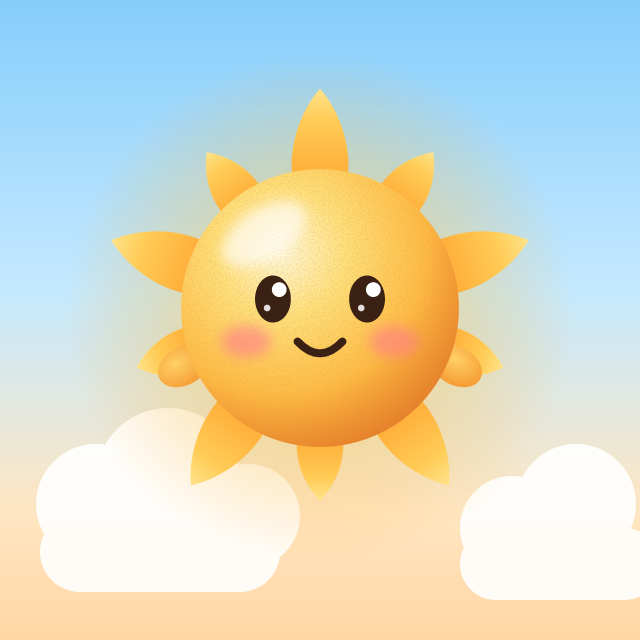
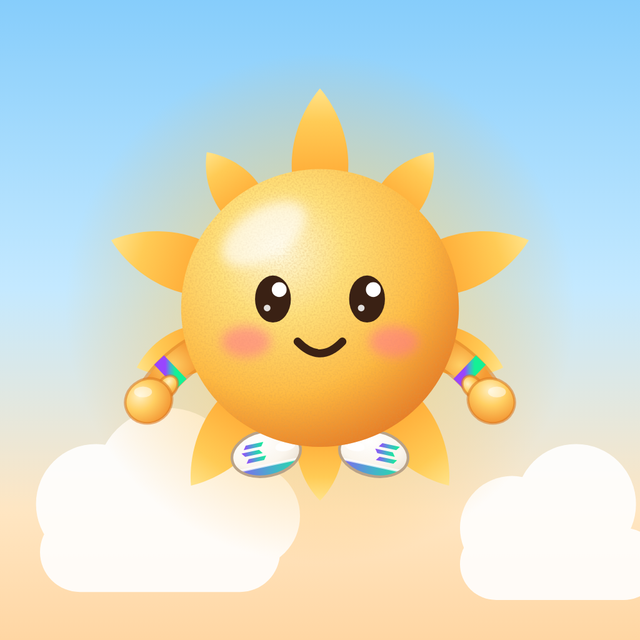
Mini App: share cards for the moments worth sharing
When Sunny catches a phishing link, Solana stops a draw, or a deep scan comes
back, a share row offers '📸 Share to Story' and '💬 Send to a friend'. The
story card is drawn on a canvas at 1080×1920 with Sunny's fonts: sky, Sunny in
its sneakers, a label chip, the headline and detail, and t.me/SunnySolBot.
Only on-chain moments get the Solana gradient. Outside Telegram it uses the
system share sheet or a download. The public avatar now shows Sunny's new
look too.

diff --git a/web/src/lib/share.ts b/web/src/lib/share.ts
@@ -1,0 +1,222 @@
+import { inTelegram, post } from './api'
+
+// Share cards: when Sunny catches a scam, Solana stops a draw or a deep scan comes back,
+// you can share the moment. The card is drawn here as a 1080×1920 story with Sunny's own
+// fonts, then posted to your Telegram Story (which needs a public link, so it's uploaded
+// first) or sent to a chat. Outside Telegram it uses the system share sheet.
+
+export const BOT_LINK = 'https://t.me/SunnySolBot'
+
+export type ShareSpec = {
+  /** Small label above the headline, e.g. "Scam caught". */
+  kicker: string
+  title: string
+  detail: string
+  /** warn for scams, sol for on-chain moments, ok for good news. */
+  tone: 'warn' | 'sol' | 'ok'
+  /** The text that goes with the story or the chat message. */
+  caption: string
+}
+
+const W = 1080
+const H = 1920
+const INK = '#3A2114'
+const SOFT = '#7A5A47'
+const FAINT = '#A88B76'
+const TONES = {
+  warn: { ink: '#C4472A', bg: '#FFE3DA' },
+  ok: { ink: '#2F8F5B', bg: '#DDF3E5' },
+  sol: { ink: '#6B3FD1', bg: '#EFE6FF' },
+}
+
+function loadImage(src: string) {
+  return new Promise<HTMLImageElement>((resolve, reject) => {
+    const img = new Image()
+    img.onload = () => resolve(img)
+    img.onerror = reject
+    img.src = src
+  })
+}
+
+function roundRect(g: CanvasRenderingContext2D, x: number, y: number, w: number, h: number, r: number) {
+  g.beginPath()
+  g.moveTo(x + r, y)
+  g.arcTo(x + w, y, x + w, y + h, r)
+  g.arcTo(x + w, y + h, x, y + h, r)
+  g.arcTo(x, y + h, x, y, r)
+  g.arcTo(x, y, x + w, y, r)
+  g.closePath()
+}
+
+function cloud(g: CanvasRenderingContext2D, x: number, y: number, s: number) {
+  g.fillStyle = 'rgba(255, 255, 255, 0.85)'
+  for (const [dx, dy, r] of [
+    [0, 0, 70],
+    [70, -30, 90],
+    [160, 0, 70],
+    [80, 25, 70],
+  ]) {
+    g.beginPath()
+    g.arc(x + dx * s, y + dy * s, r * s, 0, Math.PI * 2)
+    g.fill()
+  }
+}
+
+/** Splits text into lines that fit `width`, keeping at most `max` lines (the last one gets "…"). */
+function wrap(g: CanvasRenderingContext2D, text: string, width: number, max: number) {
+  const lines: string[] = []
+  let line = ''
+  for (const word of text.split(/\s+/)) {
+    const next = line ? `${line} ${word}` : word
+    if (g.measureText(next).width <= width) line = next
+    else {
+      lines.push(line)
+      line = word
+    }
+  }
+  if (line) lines.push(line)
+  if (lines.length > max) {
+    lines.length = max
+    lines[max - 1] = `${lines[max - 1].replace(/\s+\S*$/, '')}…`
+  }
+  return lines
+}
+
+/** Draws the story card and returns it as a JPEG. */
+export async function drawCard(spec: ShareSpec): Promise<Blob> {
+  await Promise.all([
+    document.fonts.load('600 84px Fraunces'),
+    document.fonts.load('800 40px Figtree'),
+    document.fonts.load('500 42px Figtree'),
+  ]).catch(() => {})
+  const canvas = document.createElement('canvas')
+  canvas.width = W
+  canvas.height = H
+  const g = canvas.getContext('2d')!
+
+  // A warm morning sky, like Sunny's home.
+  const sky = g.createLinearGradient(0, 0, 0, H)
+  sky.addColorStop(0, '#8FD0FF')
+  sky.addColorStop(0.5, '#FFE6C2')
+  sky.addColorStop(1, '#FFC690')
+  g.fillStyle = sky
+  g.fillRect(0, 0, W, H)
+  cloud(g, 90, 300, 1.1)
+  cloud(g, 760, 180, 0.8)
+  cloud(g, 720, 1000, 0.9)
+
+  // Sunny, in its rounded window.
+  const avatar = await loadImage('/sunny-avatar.png')
+  g.save()
+  g.shadowColor = 'rgba(170, 96, 36, 0.35)'
+  g.shadowBlur = 60
+  g.shadowOffsetY = 24
+  roundRect(g, 220, 200, 640, 640, 140)
+  g.fillStyle = '#fff'
+  g.fill()
+  g.restore()
+  g.save()
+  roundRect(g, 220, 200, 640, 640, 140)
+  g.clip()
+  g.drawImage(avatar, 220, 200, 640, 640)
+  g.restore()
+
+  // The message card.
+  const top = 940
+  const cardH = 760
+  g.save()
+  g.shadowColor = 'rgba(120, 70, 30, 0.25)'
+  g.shadowBlur = 50
+  g.shadowOffsetY = 20
+  roundRect(g, 70, top, W - 140, cardH, 64)
+  g.fillStyle = '#FFFDF8'
+  g.fill()
+  g.restore()
+
+  const tone = TONES[spec.tone]
+  g.font = '800 36px Figtree'
+  const kicker = spec.kicker.toUpperCase()
+  const chipW = g.measureText(kicker).width + 64
+  roundRect(g, 130, top + 70, chipW, 70, 35)
+  g.fillStyle = tone.bg
+  g.fill()
+  g.fillStyle = tone.ink
+  g.textBaseline = 'middle'
+  g.fillText(kicker, 162, top + 106)
+
+  g.textBaseline = 'alphabetic'
+  g.fillStyle = INK
+  g.font = '600 80px Fraunces'
+  const titleLines = wrap(g, spec.title, W - 260, 3)
+  titleLines.forEach((l, i) => g.fillText(l, 130, top + 250 + i * 92))
+
+  g.fillStyle = SOFT
+  g.font = '500 42px Figtree'
+  const detailTop = top + 250 + titleLines.length * 92 + 20
+  wrap(g, spec.detail, W - 260, 3).forEach((l, i) => g.fillText(l, 130, detailTop + i * 58))
+
+  // On-chain moments get Solana's colors, and only those.
+  if (spec.tone === 'sol') {
+    const bar = g.createLinearGradient(130, 0, W - 130, 0)
+    bar.addColorStop(0, '#9945FF')
+    bar.addColorStop(0.55, '#43B4CA')
+    bar.addColorStop(1, '#14F195')
+    roundRect(g, 130, top + cardH - 70, W - 260, 12, 6)
+    g.fillStyle = bar
+    g.fill()
+  }
+
+  g.fillStyle = INK
+  g.font = '800 46px Figtree'
+  g.fillText('☀ Sunny · your Solana guardian', 110, H - 150)
+  g.fillStyle = FAINT
+  g.font = '700 38px Figtree'
+  g.fillText('t.me/SunnySolBot', 110, H - 92)
+
+  return new Promise((resolve, reject) =>
+    canvas.toBlob((b) => (b ? resolve(b) : reject(new Error('Couldn’t draw the card'))), 'image/jpeg', 0.88),
+  )
+}
+
+const toBase64 = (blob: Blob) =>
+  new Promise<string>((resolve, reject) => {
+    const r = new FileReader()
+    r.onload = () => resolve(String(r.result).split(',')[1] ?? '')
+    r.onerror = reject
+    r.readAsDataURL(blob)
+  })
+
+const telegram = () => window.Telegram?.WebApp
+
+/** True when this Telegram can post to Stories (Bot API 7.8 and later). */
+export const canShareStory = () =>
+  inTelegram() && typeof telegram()?.shareToStory === 'function' && Boolean(telegram()?.isVersionAtLeast?.('7.8'))
+
+/** Draws the card and posts it as a Telegram Story, or uses the system share sheet outside Telegram. */
+export async function shareStory(spec: ShareSpec) {
+  const blob = await drawCard(spec)
+  if (canShareStory()) {
+    const { url } = await post<{ url: string }>('/api/share', { image: await toBase64(blob) })
+    // Stories allow 200 characters of text for most people.
+    telegram()!.shareToStory!(url, { text: `${spec.caption} ${BOT_LINK}`.slice(0, 200) })
+    return
+  }
+  const file = new File([blob], 'sunny.jpg', { type: 'image/jpeg' })
+  if (navigator.canShare?.({ files: [file] })) {
+    await navigator.share({ files: [file], text: `${spec.caption} ${BOT_LINK}` }).catch(() => {})
+    return
+  }
+  const a = document.createElement('a')
+  a.href = URL.createObjectURL(blob)
+  a.download = 'sunny.jpg'
+  a.click()
+  setTimeout(() => URL.revokeObjectURL(a.href), 10_000)
+}
+
+/** Opens Telegram's "share to a chat" with the caption and Sunny's link. */
+export function sendToChat(spec: ShareSpec) {
+  const link = `https://t.me/share/url?url=${encodeURIComponent(BOT_LINK)}&text=${encodeURIComponent(spec.caption)}`
+  const open = telegram()?.openTelegramLink
+  if (inTelegram() && open) open(link)
+  else window.open(link, '_blank', 'noopener')
+}

diff --git a/web/src/components/Cards.tsx b/web/src/components/Cards.tsx
@@ -1,5 +1,6 @@
 import { useState } from 'react'
 import { SolanaMark, SunMark } from './Icons'
+import { canShareStory, sendToChat, shareStory, type ShareSpec } from '../lib/share'
 import type { AlertCard, DeepScan, LinkCheck, MyWallet, PocketEvent, TokenCard } from '../lib/chat'
 import type { WalletReport } from '../lib/home'
 
@@ -91,8 +92,37 @@ const VERDICT = {
 } as const
 
 /** Verdict on a link the user asked about (phishing lists + impersonation checks). */
+/** Share buttons under a moment worth sharing: a Telegram Story card, or a note to a friend. */
+export function ShareRow({ spec }: { spec: ShareSpec }) {
+  const [busy, setBusy] = useState(false)
+  const [error, setError] = useState<string | null>(null)
+  const story = async () => {
+    setBusy(true)
+    setError(null)
+    try {
+      await shareStory(spec)
+    } catch (err) {
+      setError(err instanceof Error ? err.message : 'I couldn’t make the card. Try again?')
+    } finally {
+      setBusy(false)
+    }
+  }
+  return (
+    <div className="share-row">
+      <button type="button" onClick={() => void story()} disabled={busy}>
+        {busy ? 'Making your card…' : canShareStory() ? '📸 Share to Story' : '📸 Share card'}
+      </button>
+      <button type="button" onClick={() => sendToChat(spec)}>
+        💬 Send to a friend
+      </button>
+      {error && <small>{error}</small>}
+    </div>
+  )
+}
+
 export function LinkCardView({ link }: { link: LinkCheck }) {
   const v = VERDICT[link.verdict]
+  const scam = link.verdict === 'known_scam'
   return (
     <div className={`link-card link-card--${link.verdict}`}>
       <div className="link-card-top">
@@ -109,6 +139,17 @@ export function LinkCardView({ link }: { link: LinkCheck }) {
           <li key={r}>{r}</li>
         ))}
       </ul>
+      {(scam || link.verdict === 'suspicious') && (
+        <ShareRow
+          spec={{
+            kicker: 'Scam caught',
+            title: `Sunny caught a ${scam ? 'phishing' : 'suspicious'} link`,
+            detail: `${link.domain}: ${link.reasons[0]}`,
+            tone: 'warn',
+            caption: `Sunny just warned me: ${link.domain} is ${scam ? 'a phishing site' : 'suspicious'} 🛡 My Solana guardian lives in Telegram:`,
+          }}
+        />
+      )}
     </div>
   )
 }
@@ -334,6 +375,15 @@ export function DeepScanView({ scan }: { scan: DeepScan }) {
           ))}
         </ul>
       )}
+      <ShareRow
+        spec={{
+          kicker: 'Deep scan',
+          title: `Sunny deep-scanned ${scan.symbol}: ${RISK_LABEL[scan.risk].toLowerCase()}`,
+          detail: `Top 10 holders own ${pct(h.top10Pct)}. Paid $${scan.price.toFixed(2)} from its own pocket money, over x402.`,
+          tone: 'sol',
+          caption: `My AI pet Sunny paid $${scan.price.toFixed(2)} from its pocket money to deep-scan ${scan.symbol} over x402 🔍`,
+        }}
+      />
       <p className="deep-scan-paid">
         <SolanaMark size={11} /> Paid ${scan.price.toFixed(2)} from my pocket over x402 ·{' '}
         <a href={scan.paymentTx} target="_blank" rel="noreferrer">
@@ -368,6 +418,17 @@ export function PocketEventView({ event }: { event: PocketEvent }) {
             </>
           )}
         </small>
+        {!event.ok && (
+          <ShareRow
+            spec={{
+              kicker: 'My AI can’t overspend',
+              title: `Solana stopped Sunny from spending $${event.amount}`,
+              detail: `${event.message}. The limits live on-chain, not in the AI.`,
+              tone: 'sol',
+              caption: `I asked my AI pet Sunny to spend $${event.amount}. Solana said no: ${event.message.toLowerCase()} ☀`,
+            }}
+          />
+        )}
       </div>
     </div>
   )

diff --git a/web/src/index.css b/web/src/index.css
@@ -3469,3 +3469,32 @@ button.token:active {
   font-weight: 650;
   color: var(--ink-faint);
 }
+
+/* Share a moment: a Telegram Story card, or a note to a friend. */
+.share-row {
+  display: flex;
+  flex-wrap: wrap;
+  align-items: center;
+  gap: 6px;
+  margin-top: 10px;
+}
+
+.share-row button {
+  padding: 6px 11px;
+  border-radius: 999px;
+  font-size: 12.5px;
+  font-weight: 750;
+  color: var(--chip-ink);
+  background: var(--chip);
+  border: 1px solid var(--card-edge);
+}
+
+.share-row button:disabled {
+  opacity: 0.6;
+}
+
+.share-row small {
+  flex-basis: 100%;
+  font-size: 12px;
+  color: var(--warn);
+}

diff --git a/web/src/lib/haptics.ts b/web/src/lib/haptics.ts
@@ -21,6 +21,9 @@ type TelegramWebApp = {
   HapticFeedback?: TelegramHaptics
   showScanQrPopup?: (params: { text?: string }, callback?: (data: string) => boolean | void) => void
   closeScanQrPopup?: () => void
+  shareToStory?: (mediaUrl: string, params?: { text?: string }) => void
+  openTelegramLink?: (url: string) => void
+  isVersionAtLeast?: (version: string) => boolean
 }
 
 declare global {
